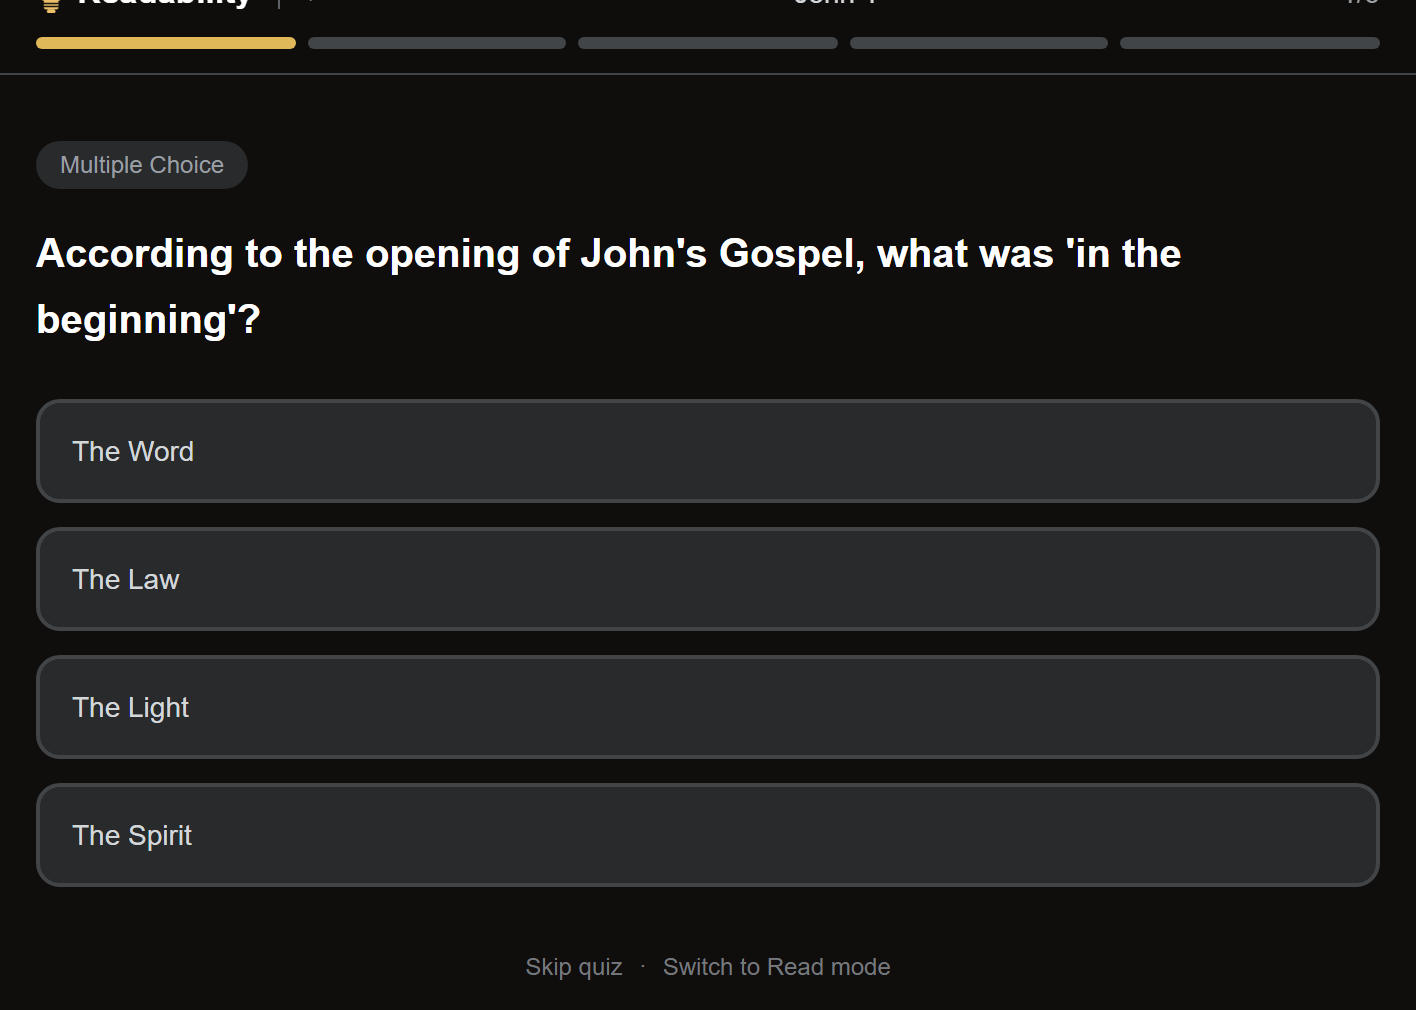
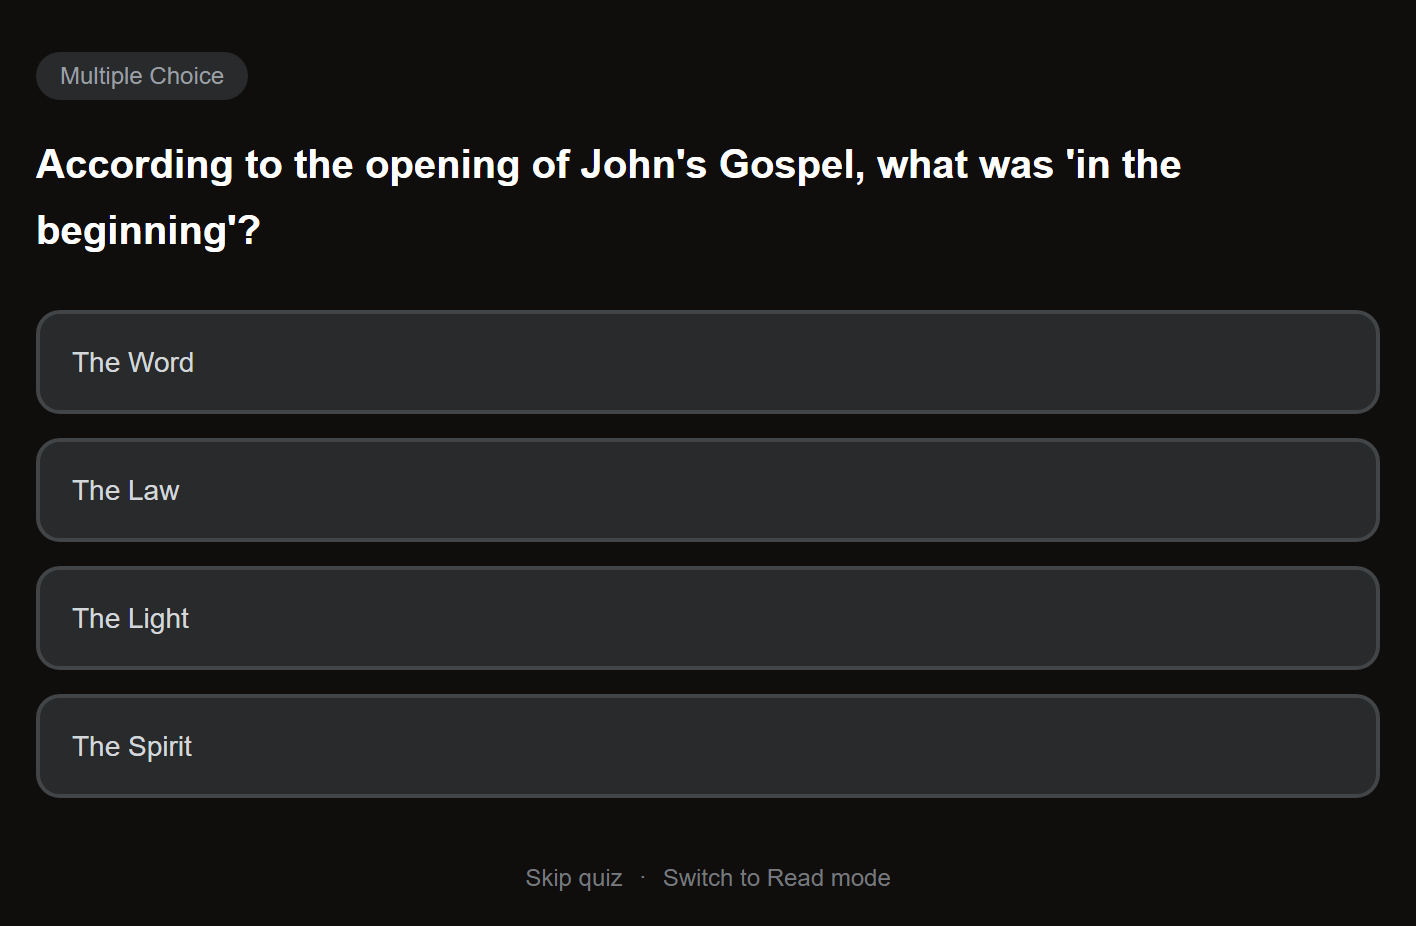
Landing: each tile ends where its content ends, and opens on a click
The tiles were all cut to one shared ratio — 16:10, then 1.4 when that
cut badly. That was the mistake: a ratio decides where a picture stops,
and a shape cannot know where a paragraph ends. Whatever the number, one
tile stopped mid-sentence in the dictionary, one mid-verse in the search
results, one mid-definition in the verse sheet. Tightening the ratio
only moved which sentence got cut.

So there is no shared aspect any more. Each tile names the element it
should finish on and takes whatever height that comes to: the word's
entry, the last of the book introduction's four fields, the foot of the
second paragraph, the foot of the second result, the map's own foot, the
quiz's own footer row. The six shapes now disagree — 1.20 to 1.80 — and
the grid takes items-start so a short tile is not stretched to its
neighbour's height and distorted with it.

Finding the verse sheet's entry needed a second try. Searching ancestors
for a Strong's number fails: textContent runs the spans together with no
spaces, so it arrives as "N-NMSG3056word" and \b never matches. It
anchors on the leaf span that renders the number and takes the nearest
div above it.

Each tile is also a button now, opening a full-size copy over the page —
they are ~280px in the grid, which says what a feature is without
showing it. Close on a click anywhere, on Escape, or on the ×; the
arrows step between the six, since re-aiming at a 280px target six times
[…]

diff --git a/src/app/feature-montage.tsx b/src/app/feature-montage.tsx
@@ -1,3 +1,6 @@
+"use client";
+
+import { useEffect, useRef, useState } from "react";
 import Image from "next/image";
 
 /**
@@ -6,66 +9,153 @@ import Image from "next/image";
  *
  * Each is a capture of the real component rather than an illustration of it —
  * scripts/shoot-features.mjs drives the app and shoots them, and re-running it
- * is how they stay current. The intrinsic sizes below are what that script
- * emitted; they are the crop's own 1.4, not a resize — change TILE_ASPECT
- * there and every pair here has to be updated to match.
+ * is how they stay current. The sizes below are each crop's own, and they no
+ * longer agree: a tile ends where its content ends — the last of the book
+ * introduction's fields, the foot of a paragraph, the end of a word's entry —
+ * rather than at a shape decided in advance, which cut every one of them
+ * mid-sentence. Re-run the script and copy the sizes it prints.
  */
 const TILES = [
   {
     src: "/landing/verse-tools.png",
     w: 1344,
-    h: 960,
+    h: 1121,
     alt: "The verse sheet open on John 1:1: highlight colours, Note and Copy, collapsed study notes and cross-references, and the Greek and English as two aligned lines with one word tapped — its partner highlighted in the other line and its transliteration, parsing, Strong's number and definition shown underneath",
   },
   {
     src: "/landing/overview.png",
     w: 1344,
-    h: 960,
+    h: 778,
     alt: "The introduction to John, giving its purpose, author, date and setting",
   },
   {
     src: "/landing/dictionary.png",
     w: 1472,
-    h: 1051,
+    h: 820,
     alt: "The dictionary article on Bethlehem, its prose linked through to the people and places it names",
   },
   {
     src: "/landing/chapter-map.png",
     w: 1344,
-    h: 960,
+    h: 1036,
     alt: "The map for John 2, marking Cana, Capernaum and Jerusalem around the Sea of Galilee",
   },
   {
     src: "/landing/search.png",
     w: 1024,
-    h: 731,
+    h: 703,
     alt: "A search for “living water” returning fourteen verses with the words highlighted",
   },
   {
     src: "/landing/quiz.png",
     w: 1416,
-    h: 1011,
+    h: 926,
     alt: "A comprehension question on the opening of John's Gospel with four answers to choose from",
   },
 ];
 
 export function FeatureMontage({ className = "" }: { className?: string }) {
+  // Which tile is open full size, by index. The tiles are small enough on the
+  // page to say what a feature is and not to show it, so each one opens.
+  const [open, setOpen] = useState<number | null>(null);
+  // The tile that was clicked, so focus goes back to it on close rather than
+  // to the top of the document.
+  const triggers = useRef<(HTMLButtonElement | null)[]>([]);
+  const closeRef = useRef<HTMLButtonElement>(null);
+
+  useEffect(() => {
+    if (open == null) return;
+    closeRef.current?.focus();
+    // The page behind must not scroll under the overlay — on a phone a scroll
+    // that starts on the image otherwise moves the landing page instead.
+    const { overflow } = document.body.style;
+    document.body.style.overflow = "hidden";
+
+    function onKey(e: KeyboardEvent) {
+      if (e.key === "Escape") return setOpen(null);
+      if (e.key !== "ArrowLeft" && e.key !== "ArrowRight") return;
+      // Six pictures behind one opening: stepping between them beats closing
+      // and re-aiming at a 282px target each time.
+      e.preventDefault();
+      setOpen((i) =>
+        i == null ? i : (i + (e.key === "ArrowRight" ? 1 : TILES.length - 1)) % TILES.length,
+      );
+    }
+    document.addEventListener("keydown", onKey);
+    return () => {
+      document.removeEventListener("keydown", onKey);
+      document.body.style.overflow = overflow;
+    };
+  }, [open]);
+
+  const shown = open == null ? null : TILES[open];
+
   return (
-    <div className={`grid grid-cols-2 gap-3 ${className}`}>
-      {TILES.map((t) => (
-        <Image
-          key={t.src}
-          src={t.src}
-          alt={t.alt}
-          width={t.w}
-          height={t.h}
-          // Two columns of a 36rem block on desktop, two columns of the
-          // viewport below it — never more than ~282px either way, so the
-          // browser is told that rather than left to assume full width.
-          sizes="(min-width: 40rem) 282px, 45vw"
-          className="w-full rounded-[3px] border border-neutral-800 bg-neutral-900"
-        />
-      ))}
-    </div>
+    <>
+      {/* items-start: the tiles no longer share a shape, since each stops at a
+          boundary in its own content. Stretched, a short tile would be pulled
+          to its neighbour's height and its picture distorted with it. */}
+      <div className={`grid grid-cols-2 items-start gap-3 ${className}`}>
+        {TILES.map((t, i) => (
+          <button
+            key={t.src}
+            type="button"
+            onClick={() => setOpen(i)}
+            ref={(node) => {
+              triggers.current[i] = node;
+            }}
+            aria-label={`Open larger: ${t.alt}`}
+            className="group block cursor-zoom-in overflow-hidden rounded-[3px] border border-neutral-800 bg-neutral-900 transition-colors hover:border-neutral-600 focus-visible:border-amber-400 focus-visible:outline-none"
+          >
+            <Image
+              src={t.src}
+              alt={t.alt}
+              width={t.w}
+              height={t.h}
+              // Two columns of a 36rem block on desktop, two columns of the
+              // viewport below it — never more than ~282px either way, so the
+              // browser is told that rather than left to assume full width.
+              sizes="(min-width: 40rem) 282px, 45vw"
+              className="w-full"
+            />
+          </button>
+        ))}
+      </div>
+
+      {shown && (
+        // Click anywhere to close: the backdrop and the image sit in one
+        // button-like surface, since "click the picture again" is what people
+        // try first and a dead centre of the screen reads as broken.
+        <div
+          role="dialog"
+          aria-modal="true"
+          aria-label={shown.alt}
+          onClick={() => setOpen(null)}
+          className="fixed inset-0 z-50 flex cursor-zoom-out items-center justify-center bg-black/90 p-4 backdrop-blur-sm sm:p-8"
+        >
+          <button
+            ref={closeRef}
+            type="button"
+            aria-label="Close"
+            onClick={() => setOpen(null)}
+            className="absolute right-3 top-3 rounded-md px-2 py-1 text-2xl leading-none text-neutral-400 transition-colors hover:text-white focus-visible:text-white focus-visible:outline-none"
+          >
+            ×
+          </button>
+          <Image
+            src={shown.src}
+            alt={shown.alt}
+            width={shown.w}
+            height={shown.h}
+            // Never past its own pixels: these are 1344px crops, and blown up
+            // on a wide display they would be softer than the tile that was
+            // clicked to see them better.
+            sizes="90vw"
+            className="max-h-full w-auto max-w-full rounded-[3px] border border-neutral-700 object-contain"
+            style={{ maxWidth: `${shown.w / 2}px` }}
+          />
+        </div>
+      )}
+    </>
   );
 }
